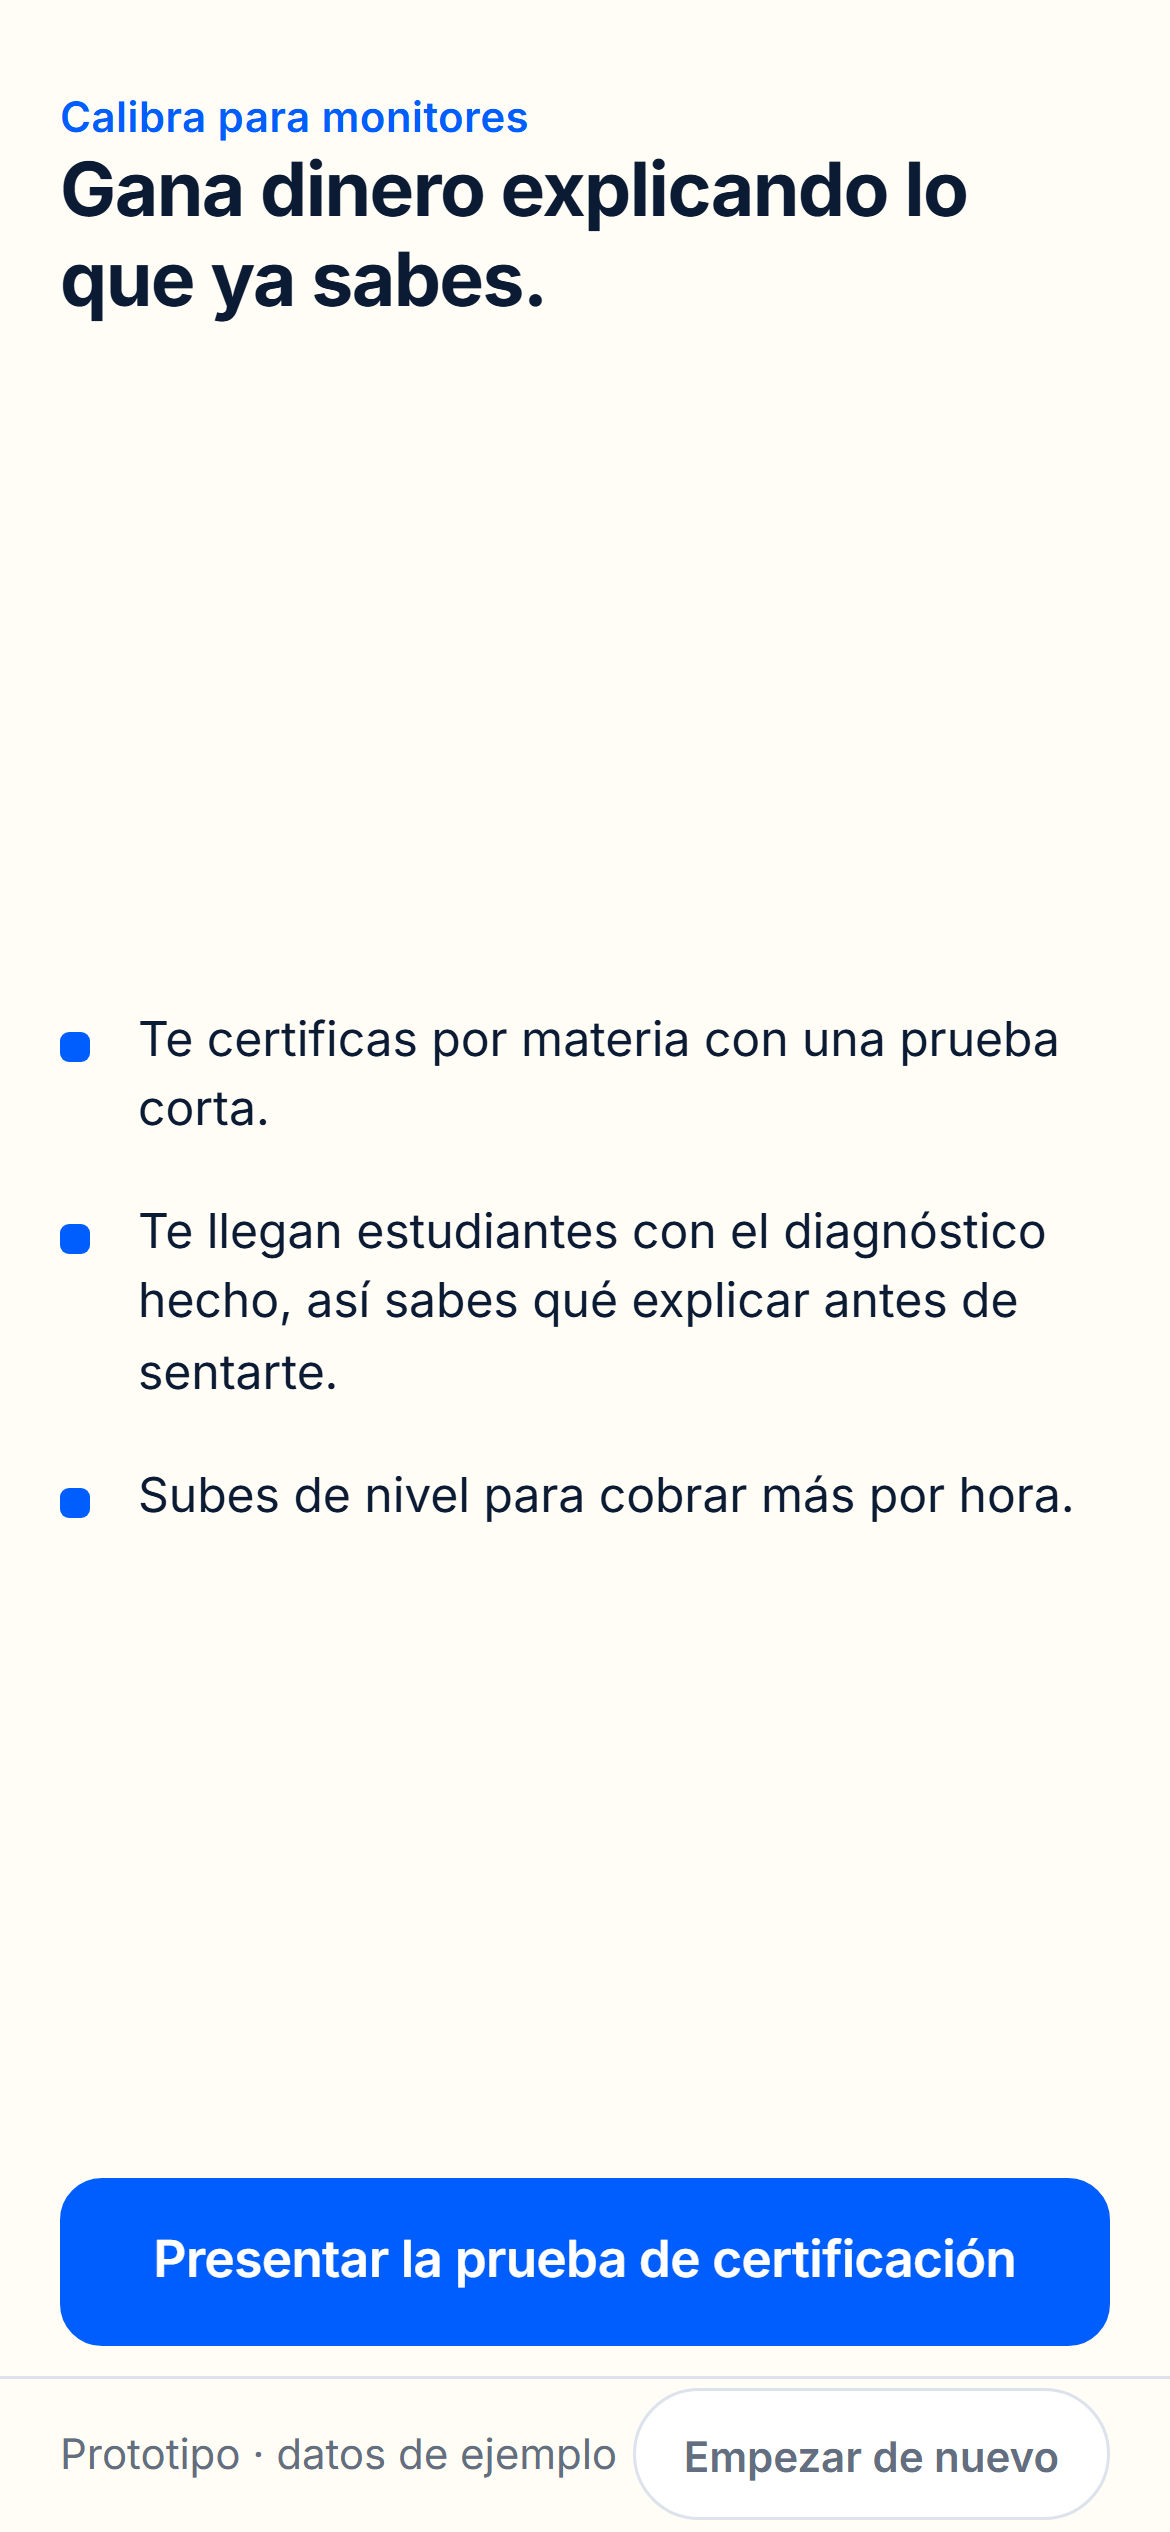
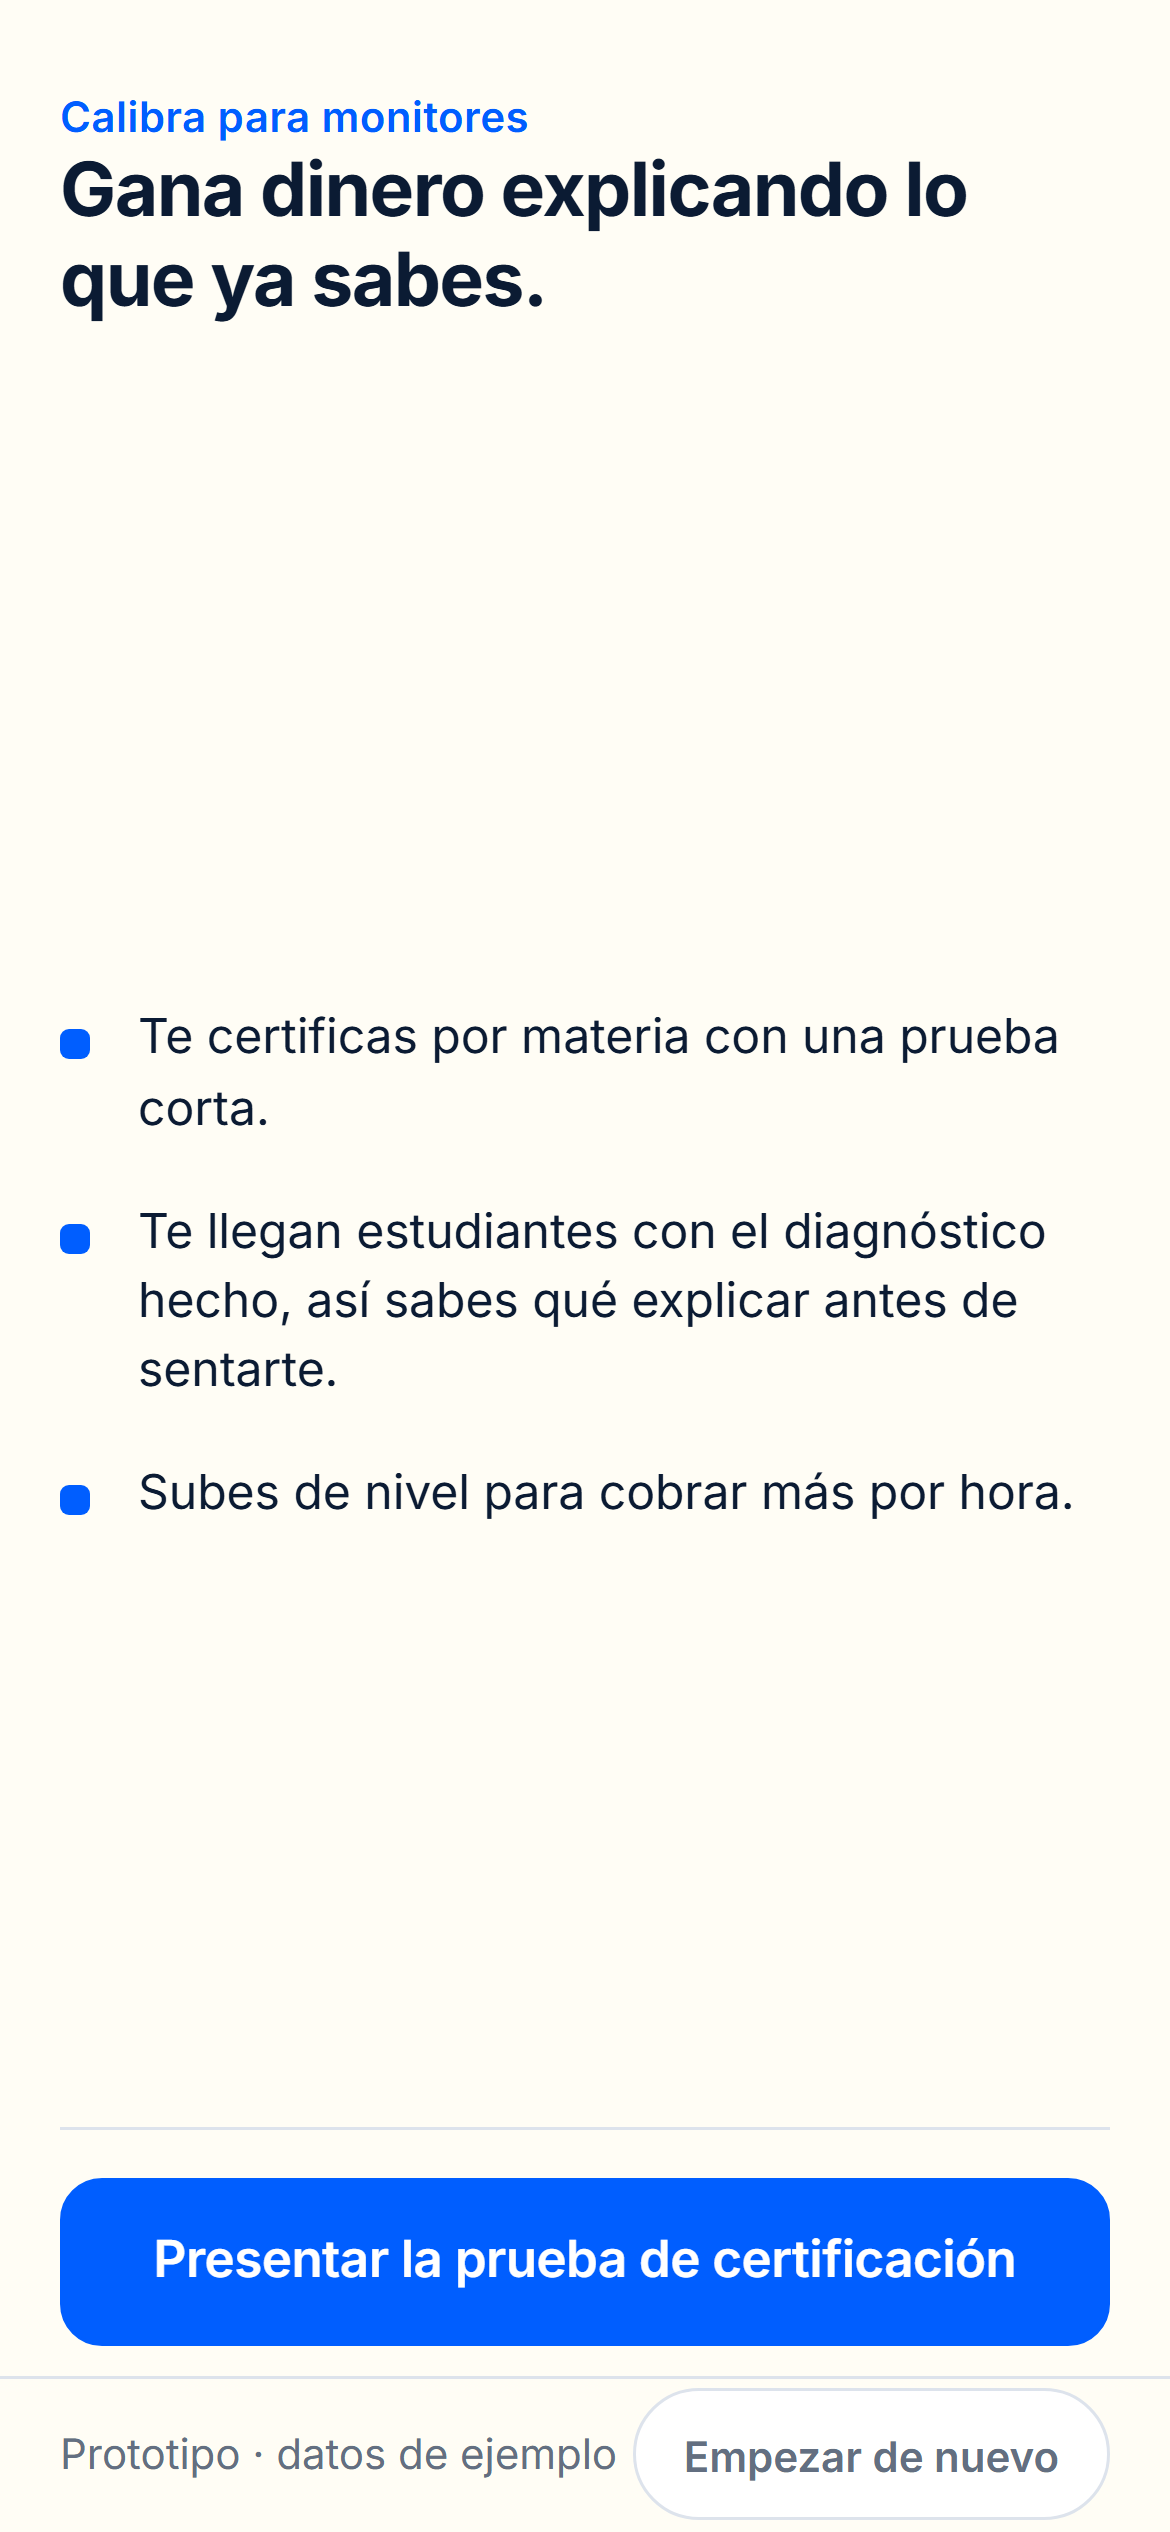
fix: fidelidad al brief, accesibilidad y revision visual; anade README
- M5 mostraba "Manana 4:00 p. m." sin "con Juan D." que pide el brief
- el nombre y el programa del monitor se pegaban en E4 (span inline)
- el agradecimiento del formulario nunca se veia: vivia dentro del form
  que se ocultaba al enviar
- la materia navegaba sola y se saltaba el boton "Empezar la prueba"
- boton deshabilitado a 3,95:1, ahora 4,95:1
- linea de separacion en el pie para que la lista que se desplaza no
  parezca recortada

Verificado: 199/199 a 390x844, y 12 pantallas limpias a 320, 360 y 1440.

diff --git a/index.html b/index.html
@@ -211,8 +211,10 @@ legend{display:block;inline-size:100%;padding:0}
   background:var(--primary);color:#fff;
   font-size:23px;font-weight:600;line-height:1;
 }
-.tutor-name{font-size:20px;font-weight:700;letter-spacing:-.02em;line-height:1.25}
-.tutor-program{margin-block-start:3px;font-size:14px;color:var(--muted)}
+/* display:block porque el motor los crea como <span>, que es inline: sin esto
+   el nombre y el programa se pegan ("Daniela R.Ingenieria Industrial"). */
+.tutor-name{display:block;font-size:20px;font-weight:700;letter-spacing:-.02em;line-height:1.25}
+.tutor-program{display:block;margin-block-start:3px;font-size:14px;color:var(--muted)}
 .chips{list-style:none;display:flex;flex-wrap:wrap;gap:8px;margin-block-start:16px}
 .chip{
   display:inline-flex;align-items:center;
@@ -252,6 +254,12 @@ legend{display:block;inline-size:100%;padding:0}
 
 /* ---------- 11. Pie de pantalla y botones ---------- */
 .footer{flex:0 0 auto;margin-block-start:auto;padding-block-start:16px}
+/* Solo el pie de primer nivel lleva la linea: deja claro que el contenido de
+   arriba se desplaza por debajo, en vez de parecer recortado. Los .footer que
+   el motor crea dentro de una pantalla (E5) no la llevan, para no duplicarla. */
+.screen>.footer{border-block-start:1px solid var(--border)}
+/* Los bloques de M5 necesitan aire entre si. */
+#panel-contenido>section+section{margin-block-start:24px}
 .footer>*+*{margin-block-start:12px}
 .btn{
   display:flex;align-items:center;justify-content:center;
@@ -2073,8 +2081,11 @@ function pintarPanel() {
   // Bloque 1: proxima sesion
   var bloque1 = document.createElement('section');
   bloque1.appendChild(crear('h2', 'eyebrow', 'Próxima sesión'));
+  // El brief (seccion 7) pide "Manana 4:00 p. m. con Juan D.": van los dos campos.
+  var cuando = campoDe(s, ['cuando', 'titulo', 'encabezado'], 'Mañana 4:00 p. m.');
+  var quien = campoDe(s, ['estudiante', 'alumno'], '');
   bloque1.appendChild(crear('p', 'subtitle',
-    campoDe(s, ['cuando', 'titulo', 'encabezado'], 'Mañana 4:00 p. m. con Juan D.')));
+    quien ? (cuando + ' con ' + quien) : cuando));
 
   var brief = crear('div', 'brief-sesion');
   brief.appendChild(lineaBrief('Subtema',

diff --git a/capturas/contact-sheet.html b/capturas/contact-sheet.html
@@ -19,7 +19,7 @@ figcaption b{color:#FFFFFF;font-weight:600}
 </head>
 <body>
 <h1>Calibra · hoja de contacto</h1>
-<p class="meta">Generada 2/9/2026, 9:32:02 p. m. · viewport 390 × 844 · deviceScaleFactor 3</p>
+<p class="meta">Generada 2/9/2026, 9:37:02 p. m. · viewport 390 × 844 · deviceScaleFactor 3</p>
 <p class="resumen">Comprobaciones: 199 · <span class="ok">OK 199</span> · <span class="falla">fallas 0</span> · detalle en <code>reporte.json</code></p>
 <div class="rejilla">
   <figure>

diff --git a/README.md b/README.md
@@ -1,0 +1,24 @@
+# Calibra · prototipo navegable
+
+Prototipo de validación de Calibra: 12 pantallas, sin backend, sin cuentas y sin pagos. Todo vive en `index.html`.
+
+1. **Abrirlo.** Doble clic en `index.html`. No necesita servidor, internet ni instalar nada. Si no hay internet, la letra cambia y nada más.
+2. **Publicarlo con GitHub Pages.** Sube la carpeta a un repositorio, entra en Settings, Pages, y elige la rama `main` con la carpeta raíz. La URL queda lista en un par de minutos.
+3. **Publicarlo con Netlify Drop.** Arrastra la carpeta a [app.netlify.com/drop](https://app.netlify.com/drop). Da una URL al instante y no pide cuenta.
+4. **Recoger correos.** Busca `const FORM_ENDPOINT = "";` al inicio del `<script>` y pega ahí la URL de tu formulario de Formspree. Vacío, la demo agradece igual y no envía nada.
+5. **Cambiar materias o preguntas.** Todo está entre `/* CONTENIDO EDITABLE */` y `/* FIN CONTENIDO EDITABLE */`. No hace falta tocar el resto.
+6. **Verificarlo.** `verificar.cmd` recorre los dos flujos en Chromium a 390x844, guarda las capturas en `capturas/` y falla si algo se rompe. Última corrida: 199 de 199.
+
+## Tres cosas que se apartan del brief
+
+Las tres son de accesibilidad y se decidieron con el contraste medido, no a ojo:
+
+- Las etiquetas van a 14px. El brief pide 13px en la sección 5 y prohíbe bajar de 14px en la sección 4, así que gana el mínimo.
+- El texto suave pasa de `#6B7789` a `#636F81`. El original da 4,46:1 sobre el fondo crema y WCAG AA pide 4,5:1.
+- El rojo y el verde conservan los hex del brief como relleno de barra, donde el umbral es 3:1 y sí pasan. Para texto se usan `#C62A2F` y `#0B7A44`, porque `#E5484D` da 3,84:1 y `#0F9D58` da 3,45:1.
+
+Queda sin corregir el borde `#DDE3EC`, que da 1,27:1 contra el fondo. Arreglarlo cambiaría el sistema visual entero.
+
+## Lo que no está probado
+
+La verificación corre sobre Chromium, que es el único navegador descargado en esta máquina. A 390x844 emula el tamaño de un iPhone, no el motor de Safari. Antes de la sustentación conviene abrirlo una vez en un iPhone real.
